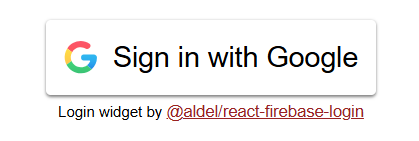
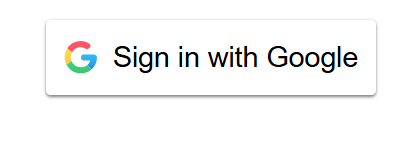
Switch to MIT license (#46)
* Switch to MIT license

* oversights

---------

Changed region(s): [[0.1241, 0.7376, 0.8687, 0.8794]]

diff --git a/lib/FirebaseLogin/index.tsx b/lib/FirebaseLogin/index.tsx
@@ -1,8 +1,6 @@
 // @aldel/react-firebase-login
 // Copyright © 2025 Alan deLespinasse
-// Dual license (See LICENSE.md for details):
-// - Free use in applications with user-visible attribution
-// - Paid license available without attribution
+// License: MIT
 import {
   useCallback,
   useEffect,
@@ -647,7 +645,7 @@ requested it, and it can only be used once.');
           fontFamily: 'sans-serif',
           padding: '0 0 8px',
         }}>
-          Login widget by{' '}
+          {/* Login widget by{' '}
           <a href="https://rfldocs.web.app/" target="_blank" rel="noreferrer" style={{
             color: '#922',
             background: 'transparent',
@@ -656,7 +654,7 @@ requested it, and it can only be used once.');
             cursor: 'pointer',
           }}>
             @aldel/react-firebase-login
-          </a>
+          </a> */}
         </div>
         {footer}
       </div>

diff --git a/lib/frames/index.tsx b/lib/frames/index.tsx
@@ -1,8 +1,6 @@
 // @aldel/react-firebase-login
 // Copyright © 2025 Alan deLespinasse
-// Dual license (See LICENSE.md for details):
-// - Free use in applications with user-visible attribution
-// - Paid license available without attribution
+// License: MIT
 
 /** A function that modifies rendered React content. The input is generally included in the
  * output as children of a wrapper component. Used for the `frame` prop of the

diff --git a/vite.config.ts b/vite.config.ts
@@ -13,9 +13,7 @@ export default defineConfig({
     dts({ rollupTypes: true }), // Output .d.ts files
     banner(`// @aldel/react-firebase-login
 // Copyright © 2025 Alan deLespinasse
-// Dual license (See LICENSE.md for details):
-// - Free use in applications with user-visible attribution
-// - Paid license available without attribution`),
+// License: MIT`),
   ],
   build: {
     minify: true,

diff --git a/lib/shared.ts b/lib/shared.ts
@@ -1,8 +1,6 @@
 // @aldel/react-firebase-login
 // Copyright © 2025 Alan deLespinasse
-// Dual license (See LICENSE.md for details):
-// - Free use in applications with user-visible attribution
-// - Paid license available without attribution
+// License: MIT
 import { type FirebaseError } from 'firebase/app';
 
 export function formatFirebaseError(error: FirebaseError): string {

diff --git a/lib/LogoutButton/index.tsx b/lib/LogoutButton/index.tsx
@@ -1,8 +1,6 @@
 // @aldel/react-firebase-login
 // Copyright © 2025 Alan deLespinasse
-// Dual license (See LICENSE.md for details):
-// - Free use in applications with user-visible attribution
-// - Paid license available without attribution
+// License: MIT
 import React, { useCallback } from 'react';
 import { type Auth, getAuth, signOut } from 'firebase/auth';
 

diff --git a/lib/index.ts b/lib/index.ts
@@ -1,8 +1,6 @@
 // @aldel/react-firebase-login
 // Copyright © 2025 Alan deLespinasse
-// Dual license (See LICENSE.md for details):
-// - Free use in applications with user-visible attribution
-// - Paid license available without attribution
+// License: MIT
 export * from './FirebaseLogin';
 export * from './FirebaseLogin/useAuth';
 export * from './LogoutButton';

diff --git a/lib/EmailLinkLogInUI/index.tsx b/lib/EmailLinkLogInUI/index.tsx
@@ -1,8 +1,6 @@
 // @aldel/react-firebase-login
 // Copyright © 2025 Alan deLespinasse
-// Dual license (See LICENSE.md for details):
-// - Free use in applications with user-visible attribution
-// - Paid license available without attribution
+// License: MIT
 import { useCallback, useState } from 'react';
 import {
   type Auth,

diff --git a/lib/EmailLogInUI/index.tsx b/lib/EmailLogInUI/index.tsx
@@ -1,8 +1,6 @@
 // @aldel/react-firebase-login
 // Copyright © 2025 Alan deLespinasse
-// Dual license (See LICENSE.md for details):
-// - Free use in applications with user-visible attribution
-// - Paid license available without attribution
+// License: MIT
 import { useCallback, useState } from 'react';
 import {
   type Auth,

diff --git a/lib/PhoneLogInUI/index.tsx b/lib/PhoneLogInUI/index.tsx
@@ -1,8 +1,6 @@
 // @aldel/react-firebase-login
 // Copyright © 2025 Alan deLespinasse
-// Dual license (See LICENSE.md for details):
-// - Free use in applications with user-visible attribution
-// - Paid license available without attribution
+// License: MIT
 import { useCallback, useState } from 'react';
 import {
   type Auth,

diff --git a/lib/FirebaseLogin/useAuth.ts b/lib/FirebaseLogin/useAuth.ts
@@ -1,8 +1,6 @@
 // @aldel/react-firebase-login
 // Copyright © 2025 Alan deLespinasse
-// Dual license (See LICENSE.md for details):
-// - Free use in applications with user-visible attribution
-// - Paid license available without attribution
+// License: MIT
 import {
   createContext,
   useContext,

diff --git a/LICENSE.md b/LICENSE.md
@@ -1,38 +1,7 @@
-### Community License (Free, With Notice)
+Copyright 2025 Alan deLespinasse
 
-Copyright © 2025 Alan deLespinasse
+Permission is hereby granted, free of charge, to any person obtaining a copy of this software and associated documentation files (the “Software”), to deal in the Software without restriction, including without limitation the rights to use, copy, modify, merge, publish, distribute, sublicense, and/or sell copies of the Software, and to permit persons to whom the Software is furnished to do so, subject to the following conditions:
 
-Permission is granted, free of charge, to any person obtaining a copy of this software (the “Software”), to:
+The above copyright notice and this permission notice shall be included in all copies or substantial portions of the Software.
 
-* install and use the Software as a dependency in an application, and
-* distribute applications that include the Software in compiled or bundled form,
-
-**subject to the following conditions:**
-
-1. **Visible Attribution**
-   Whenever the Software is visibly rendered in a user-facing interface (e.g. login or authentication flows), it displays a visible attribution notice containing:
-
-   * the package name of the Software, and
-   * a working hyperlink to its official home page or repository.
-
-   This notice may not be removed or made invisible, illegible, or nonfunctional.
-
-2. **No Redistribution as a Library**
-   You may not republish, distribute, or sublicense the Software itself (in source or compiled form) as a standalone package, library, or module. Your software packages may declare the Software as a dependency but may not include or embed it as if it were part of them.
-
-3. **No Modification**
-   You may not modify, alter, or create derivative works of the Software. Normal use of documented configuration options (such as props, themes, or styles) is permitted.
-
----
-
-### Commercial License (Optional, Paid)
-
-A commercial license is available that permits removal or modification of the attribution notice.
-
-For details, including current pricing, please see [https://rfldocs.web.app/](https://rfldocs.web.app/) or contact [adelespinasse@gmail.com](mailto:adelespinasse@gmail.com).
-
----
-
-### Disclaimer
-
-THE SOFTWARE IS PROVIDED “AS IS”, WITHOUT WARRANTY OF ANY KIND, EXPRESS OR IMPLIED, INCLUDING BUT NOT LIMITED TO THE WARRANTIES OF MERCHANTABILITY, FITNESS FOR A PARTICULAR PURPOSE, AND NONINFRINGEMENT.
+THE SOFTWARE IS PROVIDED “AS IS”, WITHOUT WARRANTY OF ANY KIND, EXPRESS OR IMPLIED, INCLUDING BUT NOT LIMITED TO THE WARRANTIES OF MERCHANTABILITY, FITNESS FOR A PARTICULAR PURPOSE AND NONINFRINGEMENT. IN NO EVENT SHALL THE AUTHORS OR COPYRIGHT HOLDERS BE LIABLE FOR ANY CLAIM, DAMAGES OR OTHER LIABILITY, WHETHER IN AN ACTION OF CONTRACT, TORT OR OTHERWISE, ARISING FROM, OUT OF OR IN CONNECTION WITH THE SOFTWARE OR THE USE OR OTHER DEALINGS IN THE SOFTWARE.

diff --git a/README.md b/README.md
@@ -1,6 +1,3 @@
-**LICENSE NOTICE:** This is **not "free software".** This package is released under a [dual license](https://rfldocs.web.app/documents/LICENSE.html): you can use it for free in applications, with a **user-visible attribution notice**, or license it [for a fee](https://rfldocs.web.app/documents/PRICING.html) to use without the attribution notice. See the [license](https://rfldocs.web.app/documents/LICENSE.html) for full details.
-
-Send inquiries to [me](mailto:adelespinasse@gmail.com).
 
 # @aldel/react-firebase-login
 
@@ -48,6 +45,6 @@ And like this when they are:
 
 ## License
 
-[Dual community / commercial license](https://rfldocs.web.app/documents/LICENSE.html)
+MIT
 
 (c) 2025 Alan deLespinasse
